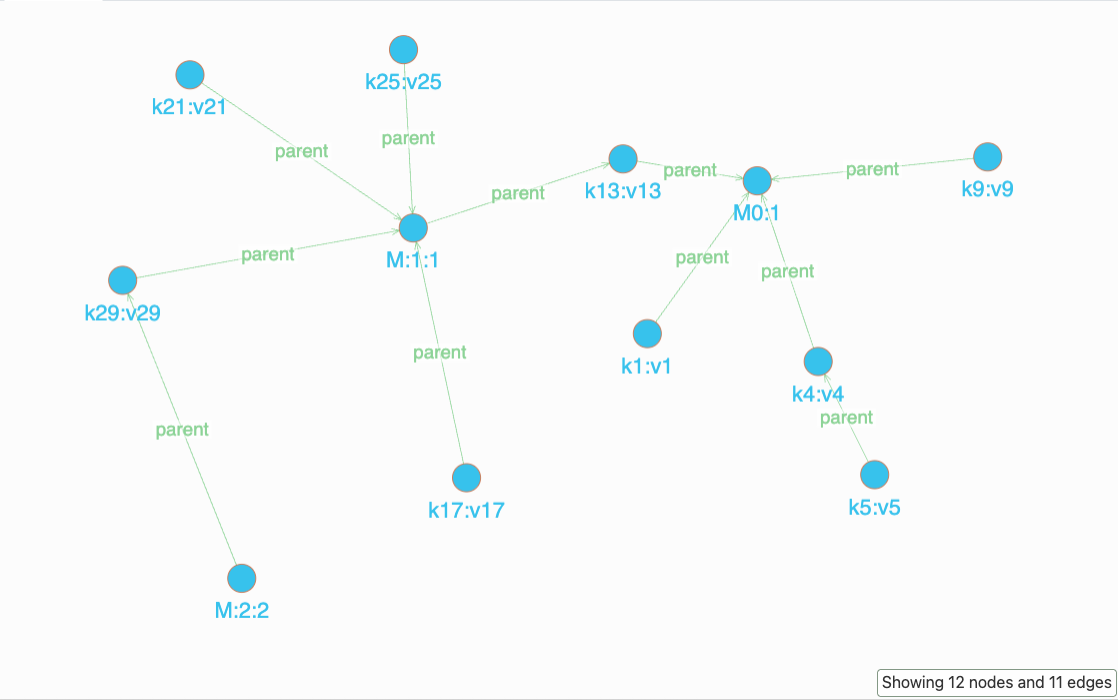
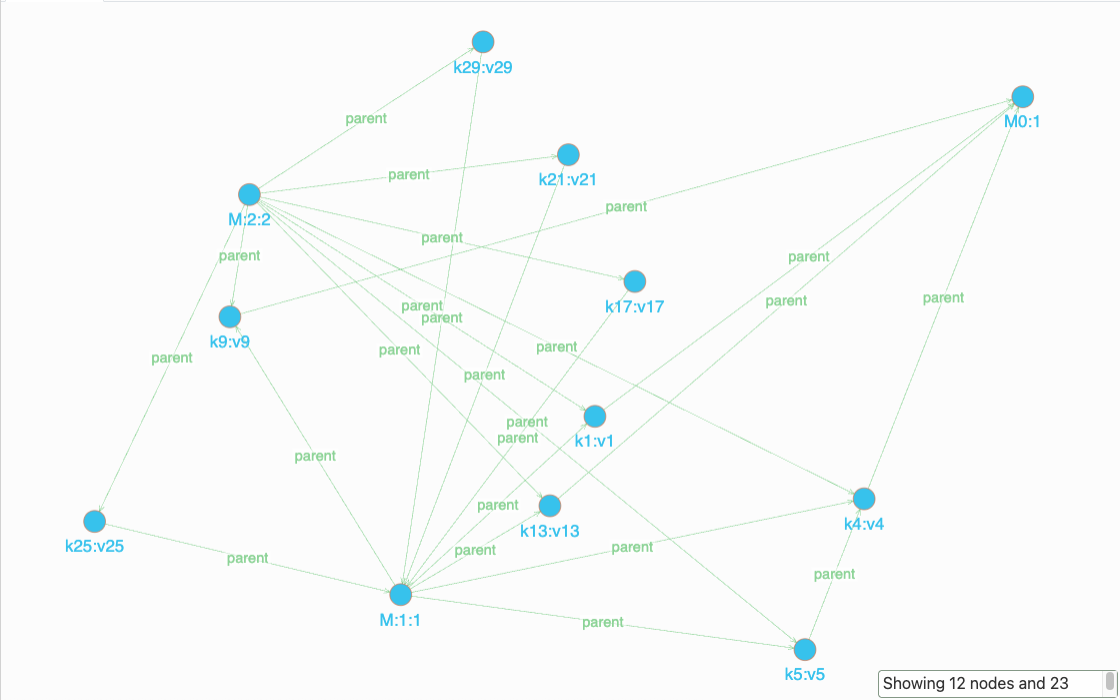
link non connected keys in a proposed epoch to its milestone key

diff --git a/client/client.go b/client/client.go
@@ -59,6 +59,7 @@ type Client struct {
 	epochMessageCount   int
 	epochMessageIDs     []string       // Track message IDs in current epoch
 	epochMessageDigests []string       // Track message digests for hashing
+	epochEventIDs       []string       // Track event IDs in current epoch for milestone connections
 	epochThreshold      int            // Configurable threshold for epoch finalization
 	lastEpochHash       string         // Hash of the last finalized epoch
 	receivedEpochs      map[int]string // Track received epoch finalizations
@@ -103,6 +104,7 @@ func NewClient(id uint64, address, privateKeyHex string) (*Client, error) {
 		epochMessageCount:   0,
 		epochMessageIDs:     make([]string, 0),
 		epochMessageDigests: make([]string, 0),
+		epochEventIDs:       make([]string, 0),
 		epochThreshold:      10,
 		lastEpochHash:       "",
 		receivedEpochs:      make(map[int]string),
@@ -459,7 +461,7 @@ func (c *Client) handleRequest(msg *message.Message) *message.Message {
 				}
 
 				// Record the milestone event
-				eventID := c.recordMessageEvent(dummyMsg, "")
+				eventID := c.recordMilestoneEvent(dummyMsg, []string{})
 
 				// Ensure this milestone is recognized as the latest milestone
 				c.eventMu.Lock()
@@ -481,6 +483,7 @@ func (c *Client) handleRequest(msg *message.Message) *message.Message {
 							c.epochMessageCount = 0
 							c.epochMessageIDs = make([]string, 0)
 							c.epochMessageDigests = make([]string, 0)
+							c.epochEventIDs = make([]string, 0)
 							fmt.Printf("Node %d: Reset epoch tracking to %d after receiving milestone %s\n",
 								c.ID, receivedEpochNum, key)
 						}
@@ -1121,6 +1124,99 @@ func goid() int {
 	return id
 }
 
+// recordMilestoneEvent specifically handles milestone events with preserved epoch events
+func (c *Client) recordMilestoneEvent(msg *message.Message, epochEvents []string) string {
+	if msg == nil || msg.Request == nil || msg.Request.Write == nil {
+		return ""
+	}
+
+	c.eventMu.Lock()
+	defer c.eventMu.Unlock()
+
+	key := msg.Request.Write.Key
+	value := msg.Request.Write.Value
+
+	if key == "" {
+		return ""
+	}
+
+	eventName := fmt.Sprintf("%s:%s", key, value)
+
+	// Return existing event if we've seen this key-value pair before
+	if existingID, exists := c.lastMessageEvents[eventName]; exists {
+		return existingID
+	}
+
+	// Convert vector clock format
+	milestoneClock := make(map[int]int)
+	if msg.MsgClock != nil {
+		for k, v := range msg.MsgClock.Values {
+			milestoneClock[int(k)] = int(v)
+		}
+	}
+
+	// SIMPLE LOGIC: Connect to ALL events that occurred causally before this milestone
+	// and are not already connected to it
+	parentIDs := make([]string, 0)
+	
+	// Get all existing events (excluding milestones, timestamps, clocks)
+	for storedName, eventID := range c.lastMessageEvents {
+		// Skip milestone events, timestamp entries, clock entries
+		if strings.HasPrefix(storedName, "M") ||
+			strings.HasPrefix(storedName, "timestamp_") ||
+			strings.HasPrefix(storedName, "clock_") ||
+			strings.HasPrefix(storedName, "latest_from_node_") {
+			continue
+		}
+		
+		// Get the event's vector clock
+		clockKey := fmt.Sprintf("clock_%s", eventID)
+		if clockStr, exists := c.lastMessageEvents[clockKey]; exists {
+			eventClock := c.parseClockString(clockStr)
+			
+			// Check if this event occurred causally before the milestone
+			// An event occurred before if ALL its clock values are <= milestone clock values
+			occurredBefore := true
+			for nodeID, eventTime := range eventClock {
+				if milestoneTime, exists := milestoneClock[nodeID]; exists {
+					if eventTime > milestoneTime {
+						occurredBefore = false
+						break
+					}
+				} else {
+					// If milestone doesn't have this node's clock, event might be concurrent
+					occurredBefore = false
+					break
+				}
+			}
+			
+			if occurredBefore {
+				parentIDs = append(parentIDs, eventID)
+			}
+		}
+	}
+
+	fmt.Printf("Node %d: Creating milestone %s with parents (all causally prior events): %v\n", 
+		c.ID, eventName, parentIDs)
+
+	// Add the event to the graph
+	eventID := c.EventGraph.AddEvent(eventName, key, value, milestoneClock, parentIDs)
+
+	// Track this event for future reference
+	c.lastMessageEvents[eventName] = eventID
+
+	// Store vector clock for the event for causality checking
+	clockKey := fmt.Sprintf("clock_%s", eventID)
+	clockStr := fmt.Sprintf("%v", milestoneClock)
+	c.lastMessageEvents[clockKey] = clockStr
+
+	// Update milestone tracking
+	c.lastMilestone = eventID
+	c.milestoneCreated = true
+
+	return eventID
+}
+
 // Records an event in the graph when a key-value pair is written
 func (c *Client) recordMessageEvent(msg *message.Message, _ string) string {
 	if msg == nil || msg.Request == nil || msg.Request.Write == nil {
@@ -1154,79 +1250,28 @@ func (c *Client) recordMessageEvent(msg *message.Message, _ string) string {
 		}
 	}
 
-	// Handle milestone events (M:X:Y format)
+	// Handle milestone events (M:X:Y format) - these should use recordMilestoneEvent instead
 	if strings.HasPrefix(key, "M") && key != "M0" {
-		// Milestones should connect to the CAUSALLY LATEST KEY-VALUE EVENT of their epoch
-		// Find the causally most recent non-milestone event using vector clocks
-		latestKeyEventID := ""
-		latestKeyEventClock := make(map[int]int)
-
+		// For milestones created during epoch finalization, this should not be called
+		// Instead, recordMilestoneEvent should be called with the preserved epoch events
+		// This is a fallback for milestones received from other nodes
+		
+		// Connect to the most recent milestone as fallback
 		for storedName, eventID := range c.lastMessageEvents {
-			// Skip milestone events, timestamp entries, clock entries, and latest_from_node entries
-			if strings.HasPrefix(storedName, "M") ||
-				strings.HasPrefix(storedName, "timestamp_") ||
-				strings.HasPrefix(storedName, "clock_") ||
-				strings.HasPrefix(storedName, "latest_from_node_") {
-				continue
-			}
-
-			// This is a key-value event, get its vector clock
-			clockKey := fmt.Sprintf("clock_%s", eventID)
-			if clockStr, exists := c.lastMessageEvents[clockKey]; exists {
-				eventClock := c.parseClockString(clockStr)
-
-				// If this is the first key-value event we're checking, use it as baseline
-				if latestKeyEventID == "" {
-					latestKeyEventID = eventID
-					latestKeyEventClock = eventClock
-				} else {
-					// Compare vector clocks to find the causally latest event
-					// An event A is causally later than B if A's clock dominates B's clock
-					isLater := true
-					isEarlier := true
-
-					// Check all nodes in both clocks
-					allNodes := make(map[int]bool)
-					for k := range eventClock {
-						allNodes[k] = true
-					}
-					for k := range latestKeyEventClock {
-						allNodes[k] = true
-					}
-
-					for nodeID := range allNodes {
-						eventValue := eventClock[nodeID]           // defaults to 0 if not present
-						latestValue := latestKeyEventClock[nodeID] // defaults to 0 if not present
-
-						if eventValue < latestValue {
-							isLater = false
-						}
-						if eventValue > latestValue {
-							isEarlier = false
-						}
-					}
-
-					// If this event is causally later (dominates the current latest), use it
-					if isLater && !isEarlier {
-						latestKeyEventID = eventID
-						latestKeyEventClock = eventClock
-					}
-					// If events are concurrent (incomparable), we could use a tie-breaker
-					// For now, we'll keep the first one found in concurrent cases
-				}
+			if strings.HasPrefix(storedName, "M:") || strings.HasPrefix(storedName, "M0:") {
+				parentIDs = append(parentIDs, eventID)
+				fmt.Printf("Node %d: Received milestone %s connected to previous milestone (fallback)\n",
+					c.ID, eventName)
+				break
 			}
 		}
-
-		if latestKeyEventID != "" {
-			parentIDs = append(parentIDs, latestKeyEventID)
-			fmt.Printf("Node %d: Milestone %s connected to causally latest key-value event ID %s (clock: %v)\n",
-				c.ID, eventName, latestKeyEventID, latestKeyEventClock)
-		} else {
-			// Fallback to genesis milestone if no key-value events found
+		
+		// If no milestone found, connect to genesis
+		if len(parentIDs) == 0 {
 			for storedName, eventID := range c.lastMessageEvents {
 				if strings.HasPrefix(storedName, "M0:") {
 					parentIDs = append(parentIDs, eventID)
-					fmt.Printf("Node %d: Milestone %s connected to genesis M0 (no key events found)\n",
+					fmt.Printf("Node %d: Received milestone %s connected to genesis M0 (fallback)\n",
 						c.ID, eventName)
 					break
 				}
@@ -1383,6 +1428,12 @@ func (c *Client) recordMessageEvent(msg *message.Message, _ string) string {
 	if strings.HasPrefix(key, "M") {
 		c.lastMilestone = eventID
 		c.milestoneCreated = true
+	} else {
+		// Track ALL non-milestone events in the current epoch (both local and received)
+		c.epochMu.Lock()
+		c.epochEventIDs = append(c.epochEventIDs, eventID)
+		c.epochMu.Unlock()
+		fmt.Printf("Node %d: Added event %s (ID: %s) to current epoch tracking\n", c.ID, eventName, eventID)
 	}
 
 	return eventID
@@ -1414,9 +1465,9 @@ func (c *Client) trackMessageForEpoch(msg *message.Message) {
 
 	isWrite := msg.Type == message.TypeRequest && msg.Request != nil && msg.Request.Write != nil
 
+	var shouldFinalize bool
+	
 	c.epochMu.Lock()
-	defer c.epochMu.Unlock()
-
 	digest := fmt.Sprintf("%s:%s:%s", msg.ReqID, msg.Sender, msg.Type)
 
 	c.epochMessageIDs = append(c.epochMessageIDs, msg.ReqID)
@@ -1429,15 +1480,23 @@ func (c *Client) trackMessageForEpoch(msg *message.Message) {
 
 		// Check if we've reached the threshold
 		if c.epochMessageCount >= c.epochThreshold {
-			fmt.Printf("Node %d: Reached threshold of %d write messages - finalizing epoch\n",
+			fmt.Printf("Node %d: Reached threshold of %d write messages - will finalize epoch\n",
 				c.ID, c.epochThreshold)
-			c.finalizeEpoch()
+			shouldFinalize = true
 		}
+	}
+	c.epochMu.Unlock()
+
+	// Call finalizeEpoch outside of the lock to avoid deadlock
+	if shouldFinalize {
+		c.finalizeEpoch()
 	}
 }
 
 // finalizeEpoch creates and broadcasts a milestone event when epoch threshold is reached
 func (c *Client) finalizeEpoch() {
+	c.epochMu.Lock()
+	
 	// Calculate hash of all messages in this epoch
 	hasher := sha256.New()
 
@@ -1461,8 +1520,24 @@ func (c *Client) finalizeEpoch() {
 	milestoneKey := fmt.Sprintf("M:%d", currentEpochNumber)
 	milestoneValue := fmt.Sprintf("%d", c.ID)
 
+	// PRESERVE the current epoch events for milestone connection
+	epochEventsForMilestone := make([]string, len(c.epochEventIDs))
+	copy(epochEventsForMilestone, c.epochEventIDs)
+
 	fmt.Printf("Node %d: FINALIZING EPOCH %d with %d messages, creating milestone %s\n",
 		c.ID, currentEpochNumber, c.epochMessageCount, milestoneKey)
+	fmt.Printf("Node %d: Milestone %s will connect to epoch events: %v\n",
+		c.ID, milestoneKey, epochEventsForMilestone)
+
+	// Reset for next epoch BEFORE releasing the lock
+	c.epochNumber = currentEpochNumber
+	c.epochMessageCount = 0
+	c.epochMessageIDs = make([]string, 0)
+	c.epochMessageDigests = make([]string, 0)
+	c.epochEventIDs = make([]string, 0)
+	c.lastEpochHash = epochHash
+	
+	c.epochMu.Unlock()
 
 	// Create and store the milestone locally first
 	c.kvStoreMu.Lock()
@@ -1486,21 +1561,14 @@ func (c *Client) finalizeEpoch() {
 			Sender:   c.EthAddress,
 		}
 
-		// Record the milestone event in the graph
-		c.recordMessageEvent(dummyMsg, "")
+		// Record the milestone event in the graph with the preserved epoch events
+		c.recordMilestoneEvent(dummyMsg, epochEventsForMilestone)
 
 		fmt.Printf("Node %d: Created local milestone %s:%s\n", c.ID, milestoneKey, milestoneValue)
 	}
 
 	c.ClockMu.Unlock()
 	c.kvStoreMu.Unlock()
-
-	// Reset for next epoch
-	c.epochNumber = currentEpochNumber
-	c.epochMessageCount = 0
-	c.epochMessageIDs = make([]string, 0)
-	c.epochMessageDigests = make([]string, 0)
-	c.lastEpochHash = epochHash
 
 	// Now broadcast the milestone to all peers using Write messages
 	for peerEthAddr := range c.Peers {
